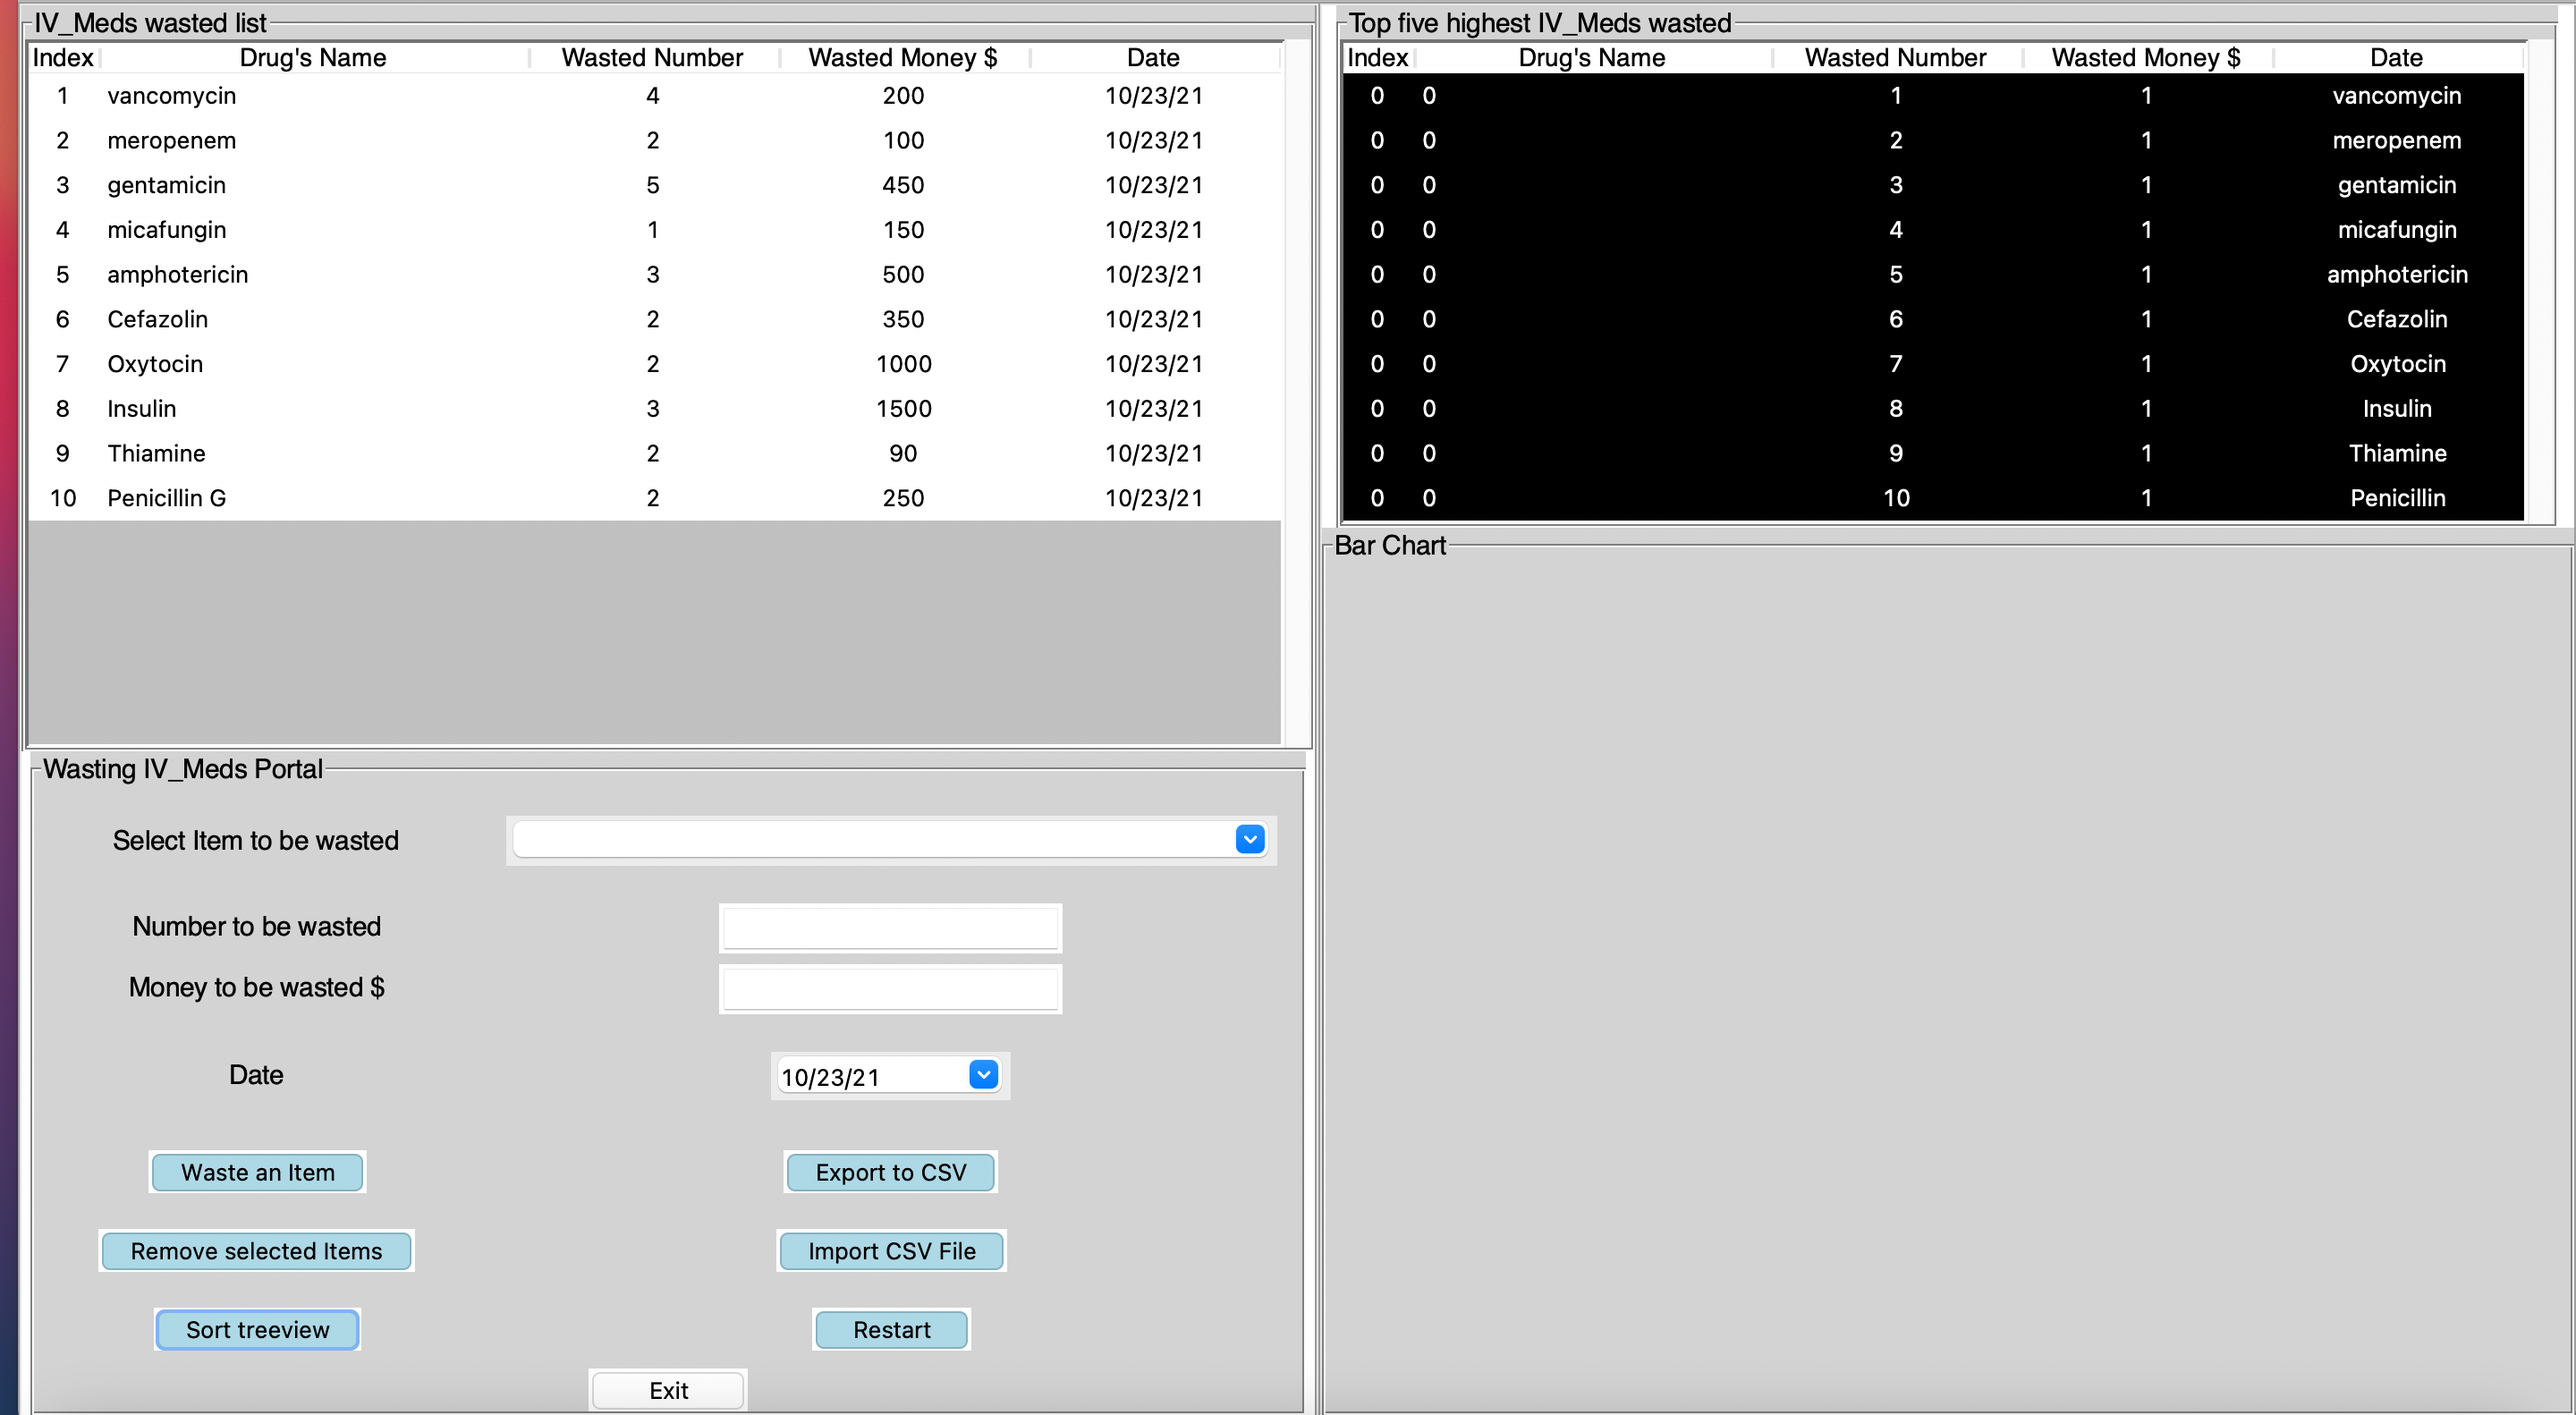
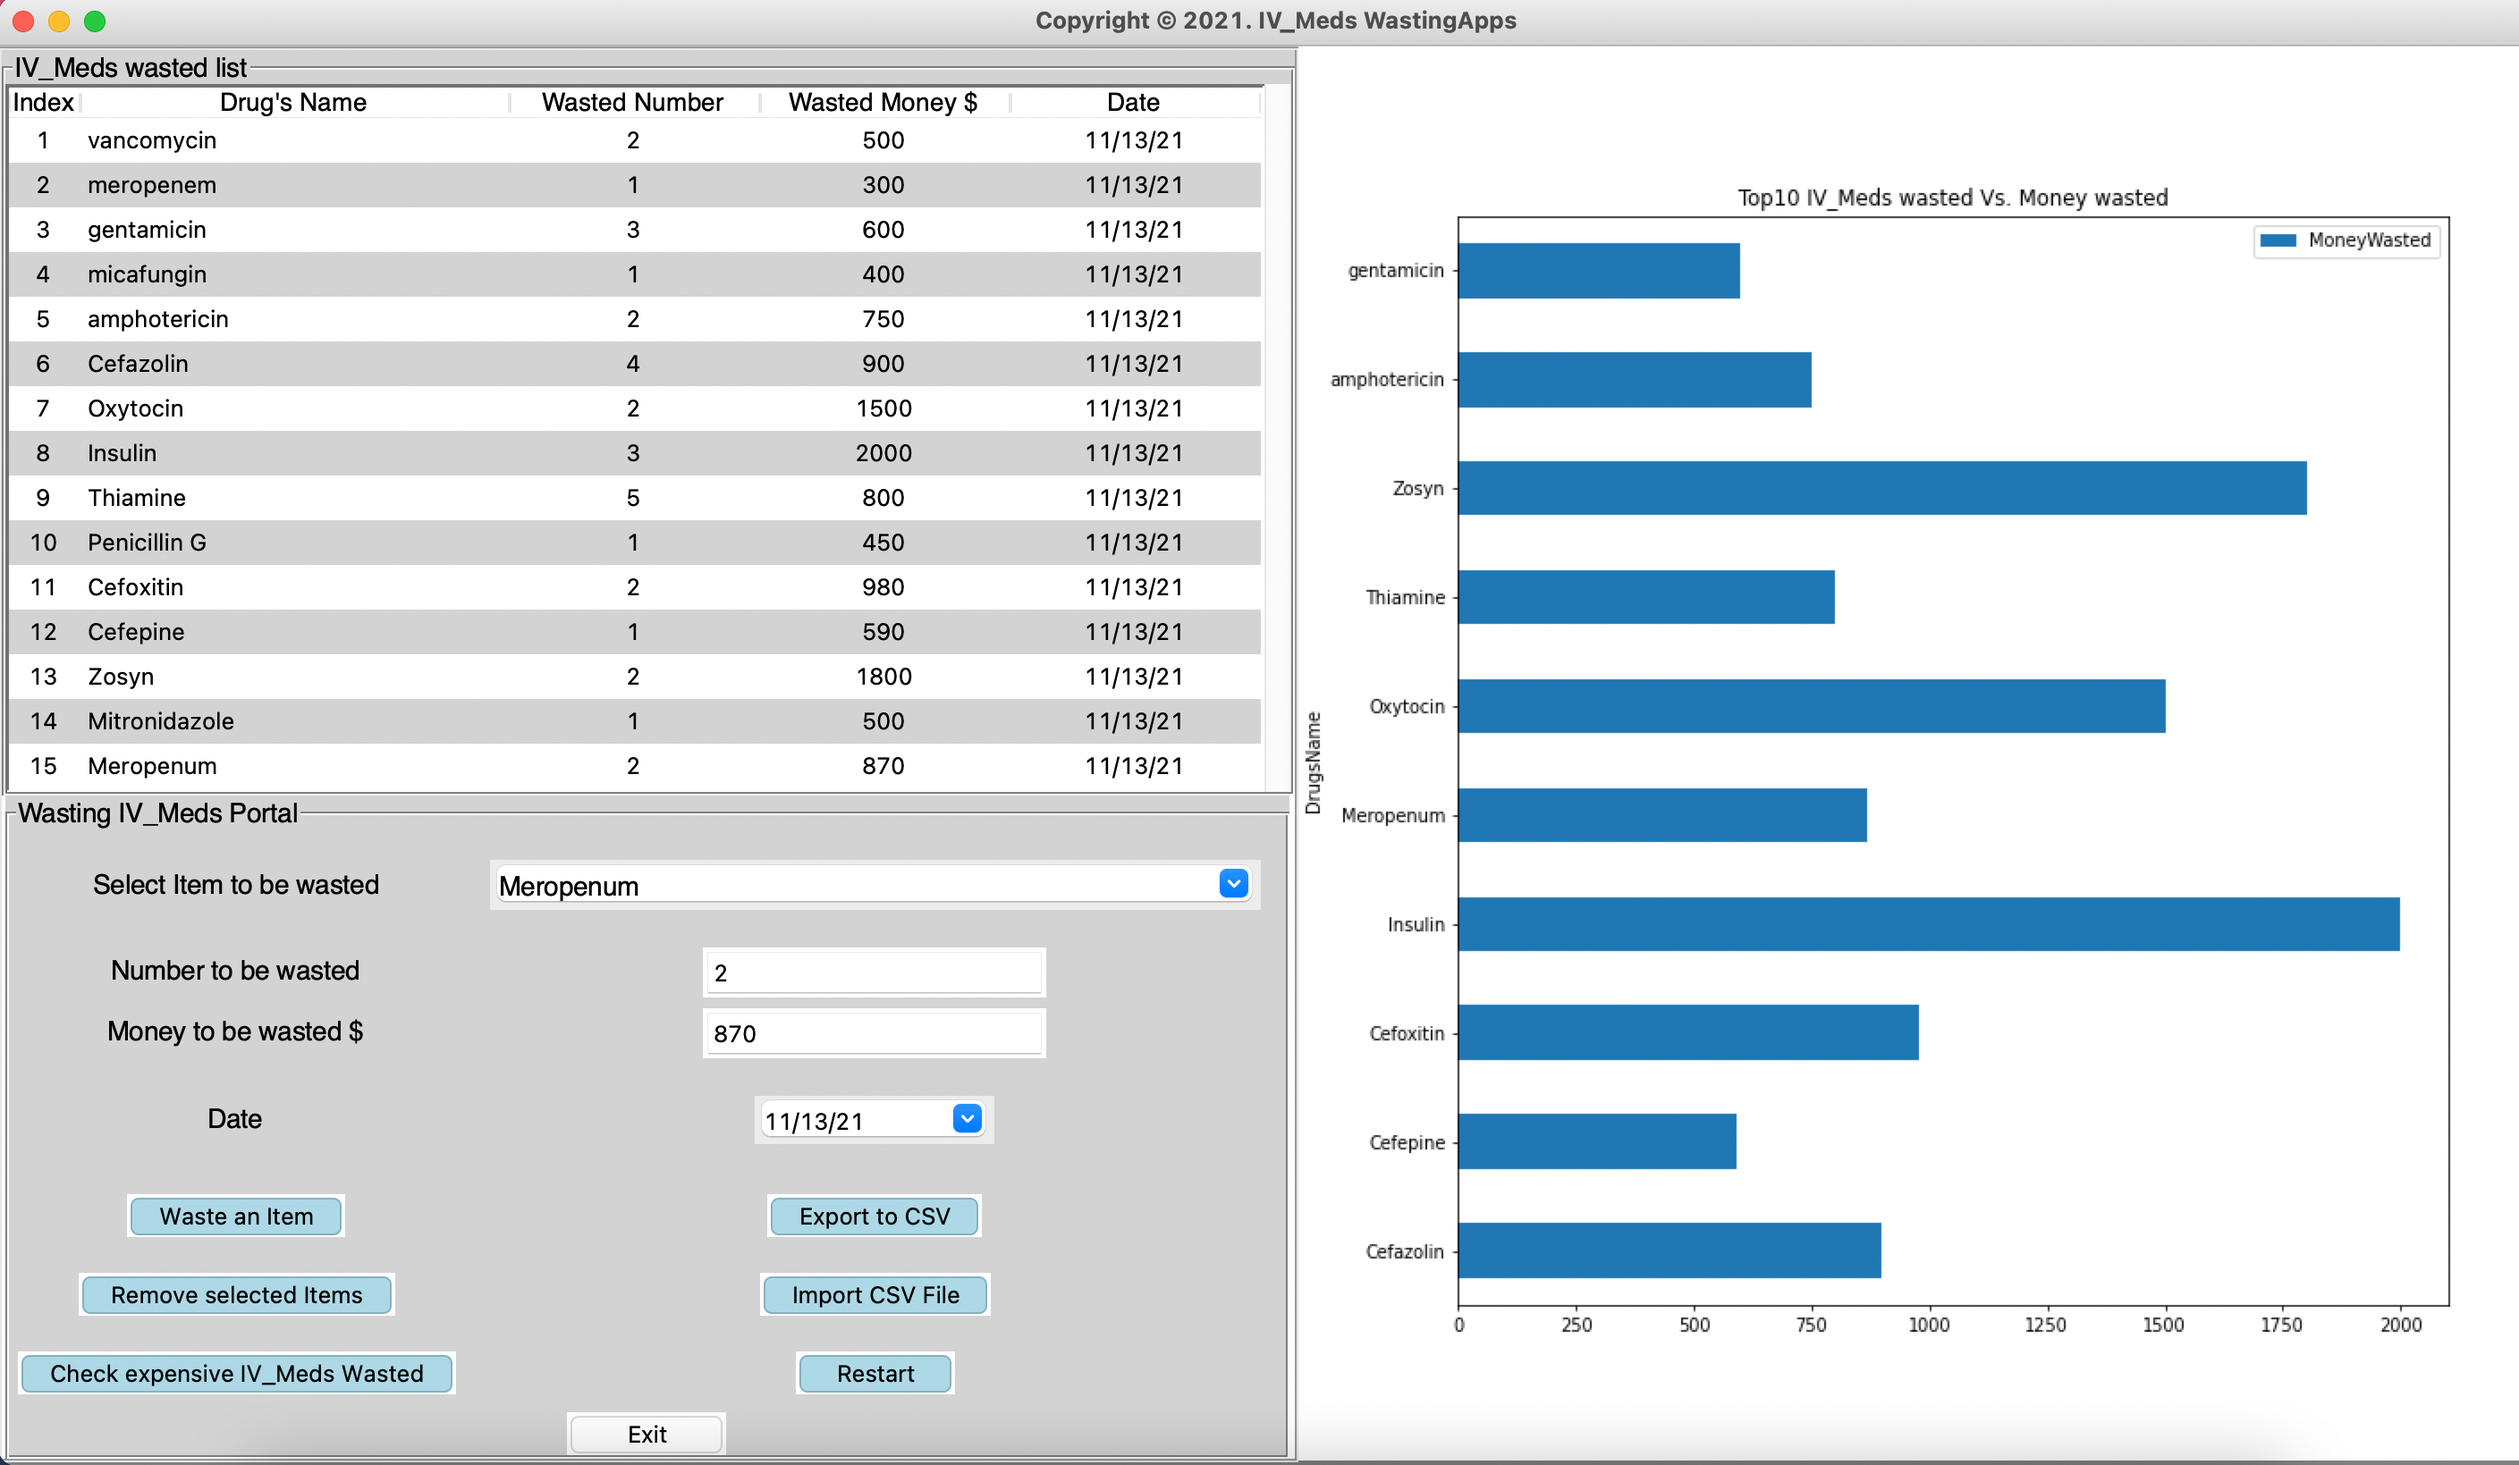
updating readme

diff --git a/IV_wastingApps.py b/IV_wastingApps.py
@@ -1,19 +1,15 @@
+__Author__ = 'Theophile Niyitanga'
+
 # import tkinter and all its functions
 
 from tkinter import *
 from tkinter import ttk
 from tkinter import messagebox, filedialog
-from numpy import False_
 from tkmacosx import Button as button
 import pandas as pd
-from functools import reduce
 from tkcalendar import DateEntry
-import matplotlib
-matplotlib.use('TkAgg')
-
-from matplotlib.pyplot import plot
+import matplotlib.pyplot as plt
 from matplotlib.backends.backend_tkagg import FigureCanvasTkAgg
-
 import csv
 import sys
 import os
@@ -33,8 +29,6 @@ def getrow(event):
 
 
 #Striped Treeview Rows with color
-
-    
 
 count = 1
 def update_wastedItemsList():
@@ -103,26 +97,41 @@ def ImportCSV():
         count = count + 1
     
 
-
-
 # Visualise the treeview contents
 
+row_list = [] # creating an empty row list
+columns = ('Index','DrugsName', 'NumberWasted','MoneyWasted','Date')
 
-def Treeview_VS():
 
- row_list = [] # creating an empty row list
- columns = ('Index','DrugsName', 'NumberWasted','MoneyWasted','Date')
- for child in trv.get_children():
-     row_list.append(trv.item(child)["values"]) 
-    
-     trv_df = pd.DataFrame(row_list, columns=columns) # creating dataframe from row list
-     
-     
-     Top5_Expensive_wasted = trv_df.nlargest(5, 'MoneyWasted') # getting the top 5 expensive
-
-     print(trv_df) # printig the dataframe in terminal
-
+def Treeview_VS(): # function to check the top 10 expensive IV_Meds wasted
+    for child in trv.get_children():
+        row_list.append(trv.item(child)["values"]) # creating a dictionary
+       
+        trv_df = pd.DataFrame(row_list, columns=columns) # creating dataframe from row list
         
+        trV_df = trv_df[trv_df.columns.difference(['Index'])] # exclude index column from a dataframe
+
+        Top10_Expensive_wasted = trV_df.nlargest(10, 'MoneyWasted') # getting the top 10 expensive
+        Plotdf = Top10_Expensive_wasted[['DrugsName', 'MoneyWasted']] # creating a dataframe made of two columns (DrungsName and MoneyWasted)
+       
+    print(Plotdf)
+    
+  # Creating Barchart
+    figure = plt.Figure(figsize=(10.2,11.3), dpi=70) 
+    ay = figure.add_subplot(111)
+    bar = FigureCanvasTkAgg(figure, root)
+    bar.get_tk_widget().grid(column=1, row=0)
+    Plotdf = Plotdf[['DrugsName', 'MoneyWasted']].groupby('DrugsName').sum()
+    Plotdf.plot(kind='barh', legend=True, ax=ay)
+    ay.set_title('Top10 IV_Meds wasted Vs. Money wasted')
+
+
+#Restart the application without closing the application windon
+
+def restart_Apps():
+    python = sys.executable
+    os.execl(python, python, * sys.argv)
+
 
 # Initialize root as an object for Tk() class for creating a root window.
 
@@ -140,9 +149,9 @@ t5 = StringVar()
 
 #Title of GUI Window
 
-root.title("IV_WastingApps") 
+root.title("Copyright © 2021. IV_Drugs WastingApps") 
 
-# Specify the max size the window can exand to
+# Specify the max size the window
 
 root.geometry("1430x800")
 
@@ -150,12 +159,11 @@ root.geometry("1430x800")
 
 root.config(bg="grey")
 
-#Create left and right frames
+#Create left frame
 
 wrapper = LabelFrame(root, width=700)
 wrapper.grid(row=0, column=0)
-wrapper3 = LabelFrame(root, width=700)
-wrapper3.grid(row=0, column=1)
+
 
 #Create wrappers and labels in left_frame
 
@@ -163,13 +171,6 @@ wrapper1 = LabelFrame(wrapper, width=700, text="IV_Meds wasted list", bg="lightg
 wrapper1.grid(row=0, column=0)
 wrapper2 = LabelFrame(wrapper, text="Wasting IV_Meds Portal", bg="lightgrey", font=("Helvetica", 15))
 wrapper2.grid(row=2, column=0)
-
-#Create wrappers and labels in right_frame
-
-wrapper4 = LabelFrame(wrapper3, width=700, text="Top five highest IV_Meds wasted", bg="lightgrey", font=("Helvetica", 15))
-wrapper4.grid(row=0, column=1)
-wrapper5 = LabelFrame(wrapper3, width=700, height=496,text="Bar Chart", bg="lightgrey", font=("Helvetica", 15))
-wrapper5.grid(row=2, column=1)
 
 # create treeview inside the IV_MedS Wasted list wrapper
 
@@ -180,38 +181,12 @@ vsb.pack(side ='right', fill ='y')
 trv.configure(yscrollcommand=vsb.set)
 style.configure("Treeview.Heading", font=("Helvetica", 14))
 
-# create treeview inside the Top five highest IV_Meds wasted wrapper
-
-style = ttk.Style()
-trV = ttk.Treeview(wrapper4, columns=(1,2,3,4,5), show="headings", height=10)
-vsb = ttk.Scrollbar(wrapper4, orient="vertical", command=trV.yview)
-vsb.pack(side ='right', fill ='y')
-trV.configure(yscrollcommand=vsb.set)
-style.configure("Treeview.Heading", font=("Helvetica", 14))
-
-
-# create graph
-
-
-
-#Restart the application without closing the application windon
-
-def restart_Apps():
-    python = sys.executable
-    os.execl(python, python, * sys.argv)
-
-
-
 
 #Configure left treeview colors
 
 style.configure("Treeview", background="lightblue", forgound="black", rowheight=25, fieldbackground="silver")
 trv.pack()
 
-#Configure right treeview colors
-
-style.configure("Treeview", background="lightblue", forgound="black", rowheight=25, fieldbackground="silver")
-trV.pack()
 
 #Change the color of selected row in treeview
 
@@ -230,20 +205,6 @@ trv.heading(2, text="Drug's Name")
 trv.heading(3, text="Wasted Number")
 trv.heading(4, text="Wasted Money $")
 trv.heading(5, text="Date")
-
-
-#Create striped row tags for right treeview
-trV.column("#1", anchor=CENTER, width=40)
-trV.column("#2", width=200)
-trV.column("#3", anchor=CENTER, width=140) 
-trV.column("#4", anchor=CENTER, width=140)
-trV.column("#5", anchor=CENTER, width=140)
-
-trV.heading(1, text="Index")
-trV.heading(2, text="Drug's Name")
-trV.heading(3, text="Wasted Number")
-trV.heading(4, text="Wasted Money $")
-trV.heading(5, text="Date")
 
 # create Wasting IV_Meds Portal
 
@@ -265,14 +226,12 @@ IV_Meds = [
     "Meropenum"
 ]
 
-
+# creating labels
 
 lbl2 = Label(wrapper2, text="Select Item to be wasted", height=3, bg="lightgrey", font=("Helvetica", 15))
 lbl2.grid(row=0, column=0, padx=5, pady=3)
 ent2 = ttk.Combobox(wrapper2, value=IV_Meds, width=45, font=("Helvetica", 15))
 ent2.grid(row=0, column=1, padx=14, pady=3)
-
-
 
 
 lbl3 = Label(wrapper2, text="Number to be wasted", bg="lightgrey", font=("Helvetica", 15))
@@ -291,13 +250,13 @@ lbl5.grid(row=3, column=0, padx=5, pady=3)
 ent5 = DateEntry(wrapper2, selectmode='day')
 ent5.grid(row=3, column=1, padx=5, pady=3)
 
-
+# creating buttons to command the application functions
 
 Add_btn = button(wrapper2, text="Waste an Item", command=update_wastedItemsList, bg='lightblue')
 Export_toCSV = button(wrapper2, text="Export to CSV", command=Export_To_CSVFile, bg='lightblue')
 Remove_moreItem = button(wrapper2, text="Remove selected Items", command=Remove_moreItemFromList, bg='lightblue')
 ImportCVSfile = button(wrapper2, text="Import CSV File", command=ImportCSV, bg='lightblue')
-Trv_Visualise = button(wrapper2, text="Sort treeview", command=Treeview_VS, bg='lightblue')
+Trv_Visualise = button(wrapper2, text="Check expensive IV_Meds Wasted", command=Treeview_VS, bg='lightblue')
 Exit_btn = button(wrapper2, text="Exit", command=root.quit, bg='white')
 Restart_btn = button(wrapper2, text="Restart", command=restart_Apps, bg='lightblue')
 
@@ -310,9 +269,6 @@ Restart_btn.grid(row=6, column= 1, padx=5, pady=10)
 Exit_btn.grid(row=7, columnspan=2)
 
 
-# create Wasting Bar Chart window
-
-lbl5 = Label(wrapper5, text=" Graph", height=3, bg="lightgrey", font=("Helvetica", 15))
-
-
+#closing the root window
 root.mainloop()
+

diff --git a/ReadMe.md b/ReadMe.md
@@ -1,6 +1,6 @@
-# IV_Drugs wasting Apllication (IWA)
+# IV_Drugs wasting Application (IWA)
 
-IV_Drugs wasting Application (IWA) is a python class project done by a pharmacy Technician, who has a passion of developing applications that will help pharmacy to be more profitable. 
+IV_Drugs wasting Application (IWA) is a python class project done by a pharmacy Technician, who has a passion of developing applications that will make a difference in pharmacy business Intelligence. 
 
 IWA is going to help pharmacy Manager to vilualize the  data of IV_Drugs wasted, and make evidences based decisions to save money that are being wasted.
 
@@ -13,7 +13,7 @@ IWA is going to help pharmacy Manager to vilualize the  data of IV_Drugs wasted,
 - Python
 - Tkinter
 
-Tkinter are available on most Unix platforms, including macOS, as well as on Windows systems.
+Tkinter as a Graphical User Interface (GUI), is available on most Unix platforms, including macOS, as well as on Windows systems.
 
 Running python -m tkinter from the command line should open a window demonstrating a simple Tk interface, letting you know that tkinter is properly installed on your system.
 
